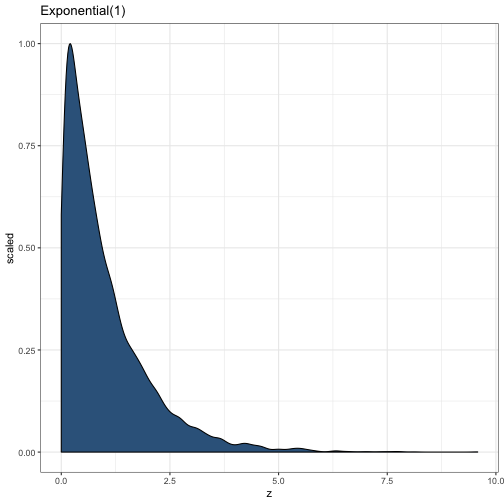
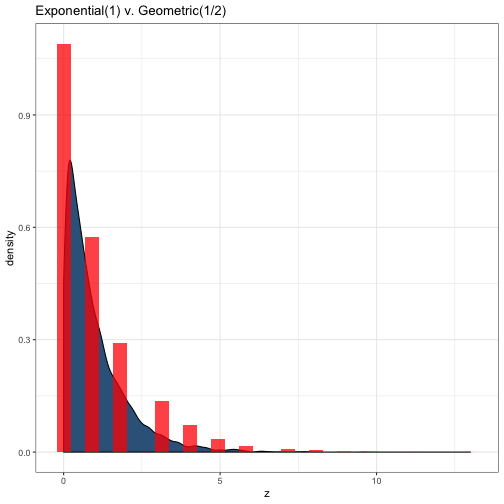
Add files via upload

diff --git a/slides_firstmodels_pta.html b/slides_firstmodels_pta.html
@@ -287,28 +287,19 @@ ggplot(d, aes(z)) + geom_density(fill = "steelblue4", aes = .75) + theme_bw() +
 
 &lt;img src="slides_firstmodels_pta_files/figure-html/unnamed-chunk-10-1.png" height="400" /&gt;
 
----
-# Normalized to one
-Use `stat(scaled)`, a helper function, in place of your y value here.
 
-```r
-ggplot(d, aes(z, y = stat(scaled))) + geom_density(fill = "steelblue4", aes = .75) + theme_bw() +
-  ggtitle("Exponential(1)")
-```
-
-&lt;img src="slides_firstmodels_pta_files/figure-html/unnamed-chunk-11-1.png" height="400" /&gt;
 
 ---
 # Exponential v. geometric
 
 
 ```r
-ggplot(d) + geom_density(aes(z, y = stat(scaled)), fill = "steelblue4", aes = .75) + 
+ggplot(d) + geom_density(aes(z), fill = "steelblue4", aes = .75) + 
   theme_bw() + geom_histogram(aes(x, y = stat(density)), fill = "red", alpha = .75) +
   ggtitle("Exponential(1) v. Geometric(1/2)")
 ```
 
-&lt;img src="slides_firstmodels_pta_files/figure-html/unnamed-chunk-12-1.png" height="400" /&gt;
+&lt;img src="slides_firstmodels_pta_files/figure-html/unnamed-chunk-11-1.png" height="400" /&gt;
 
 ---
 # Tutorial
